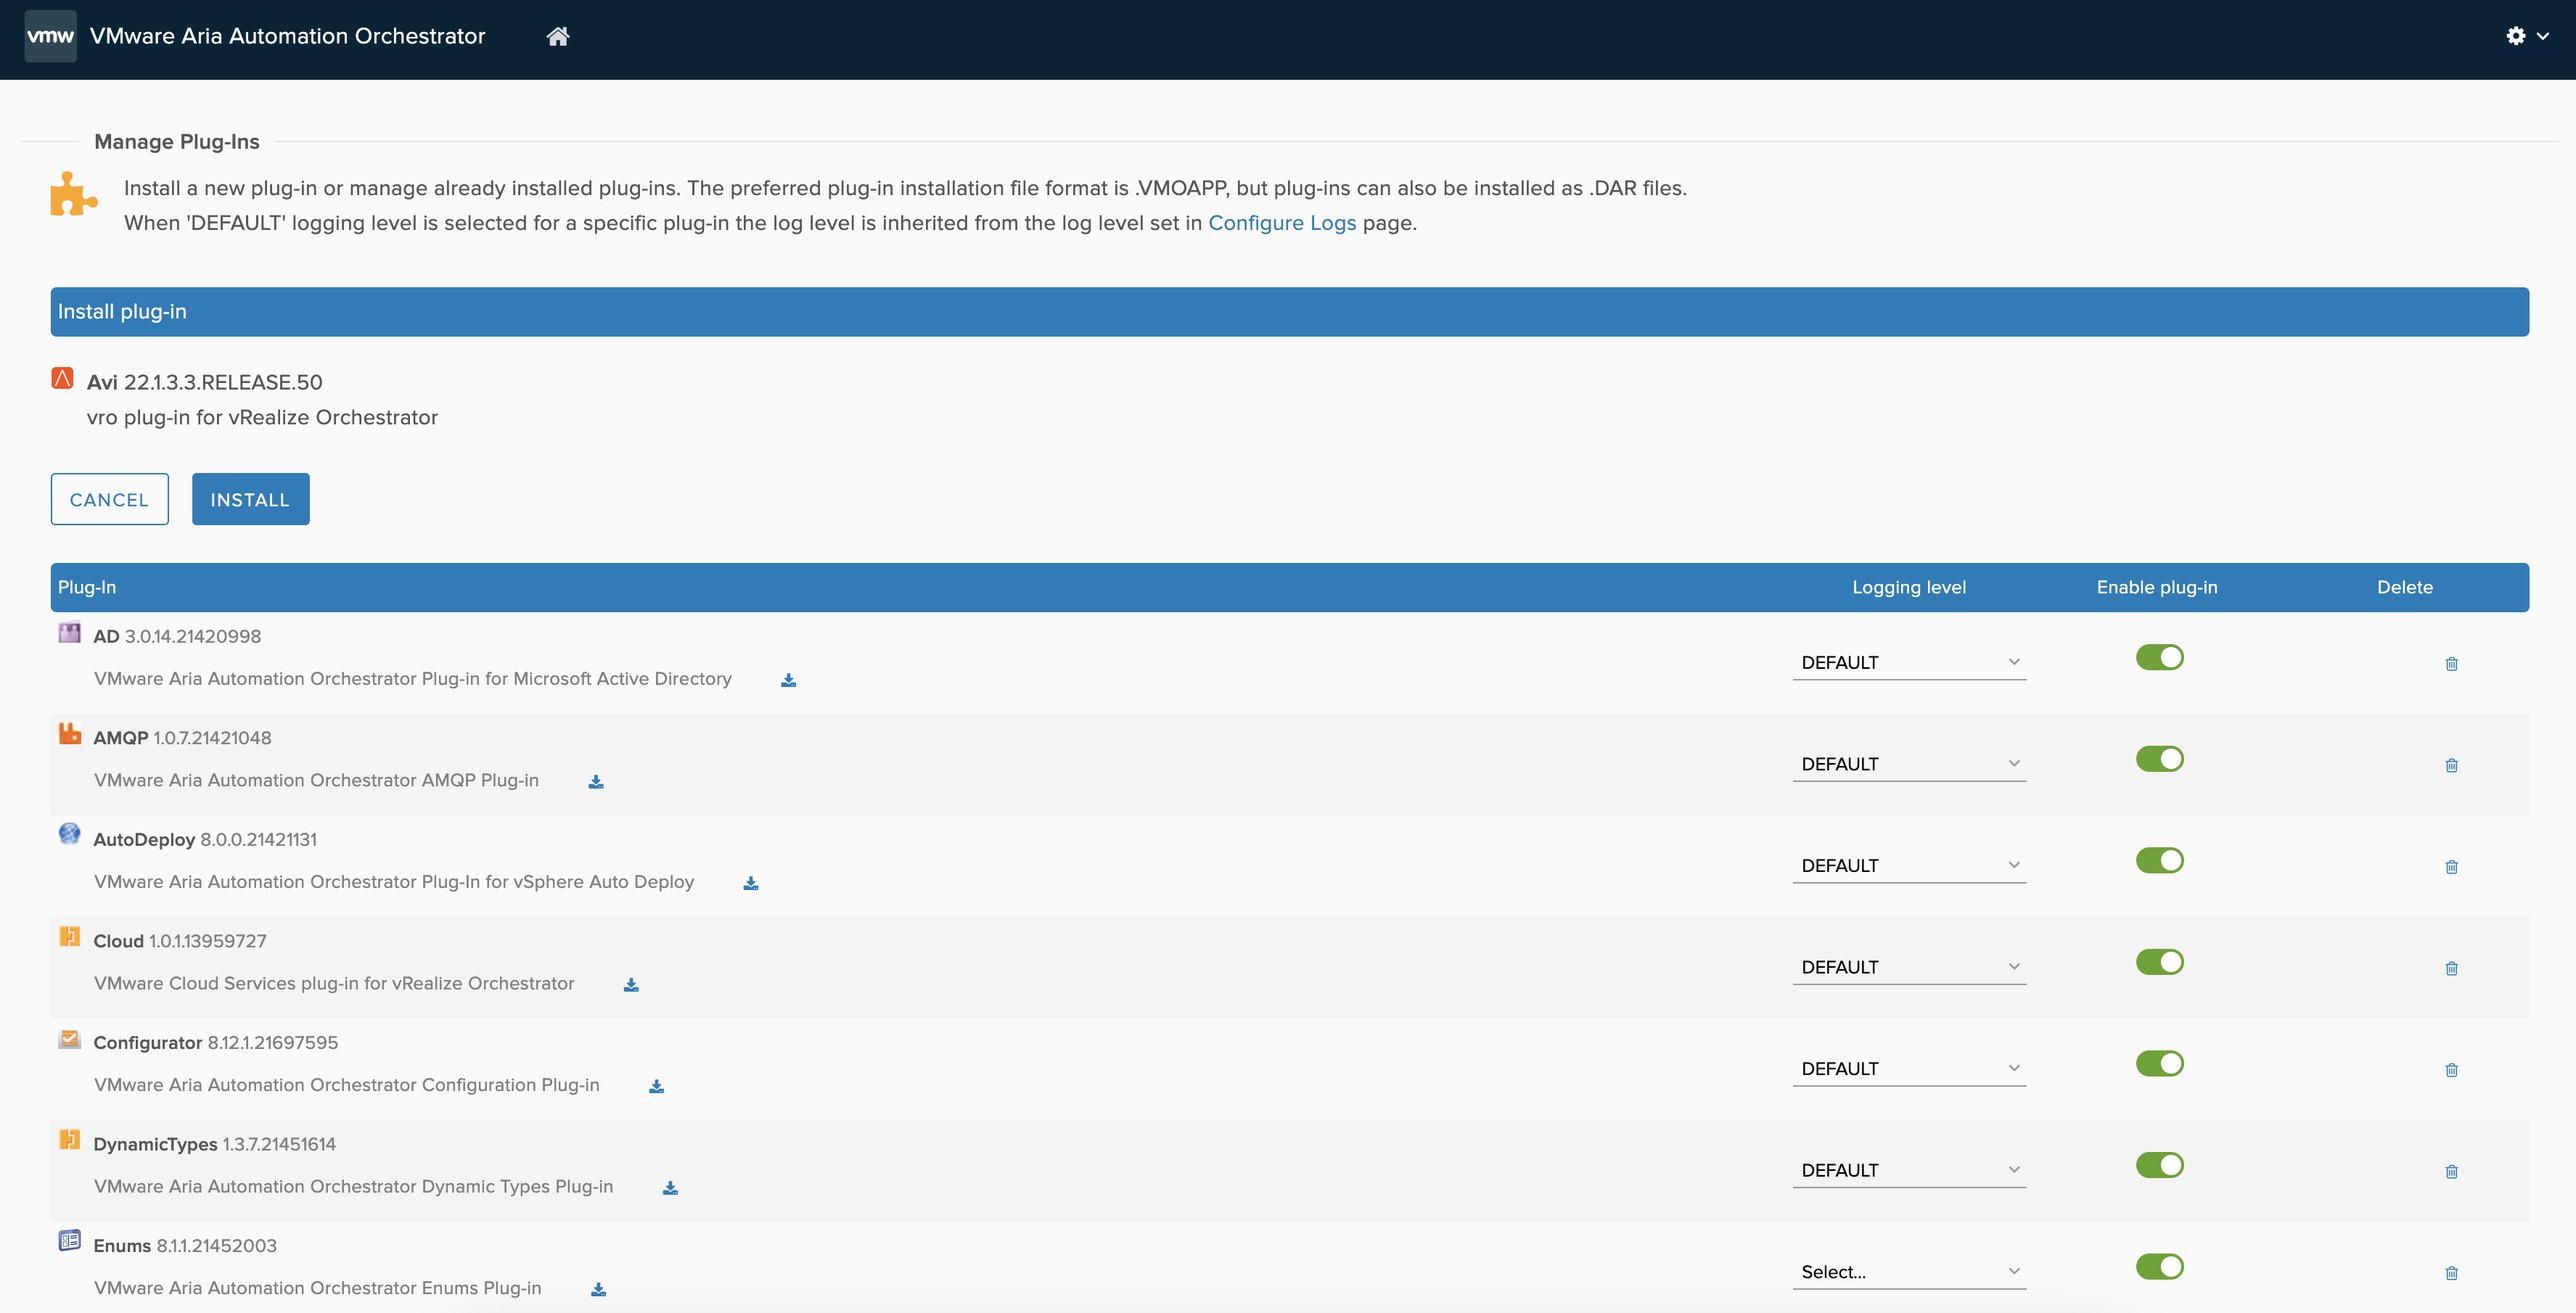
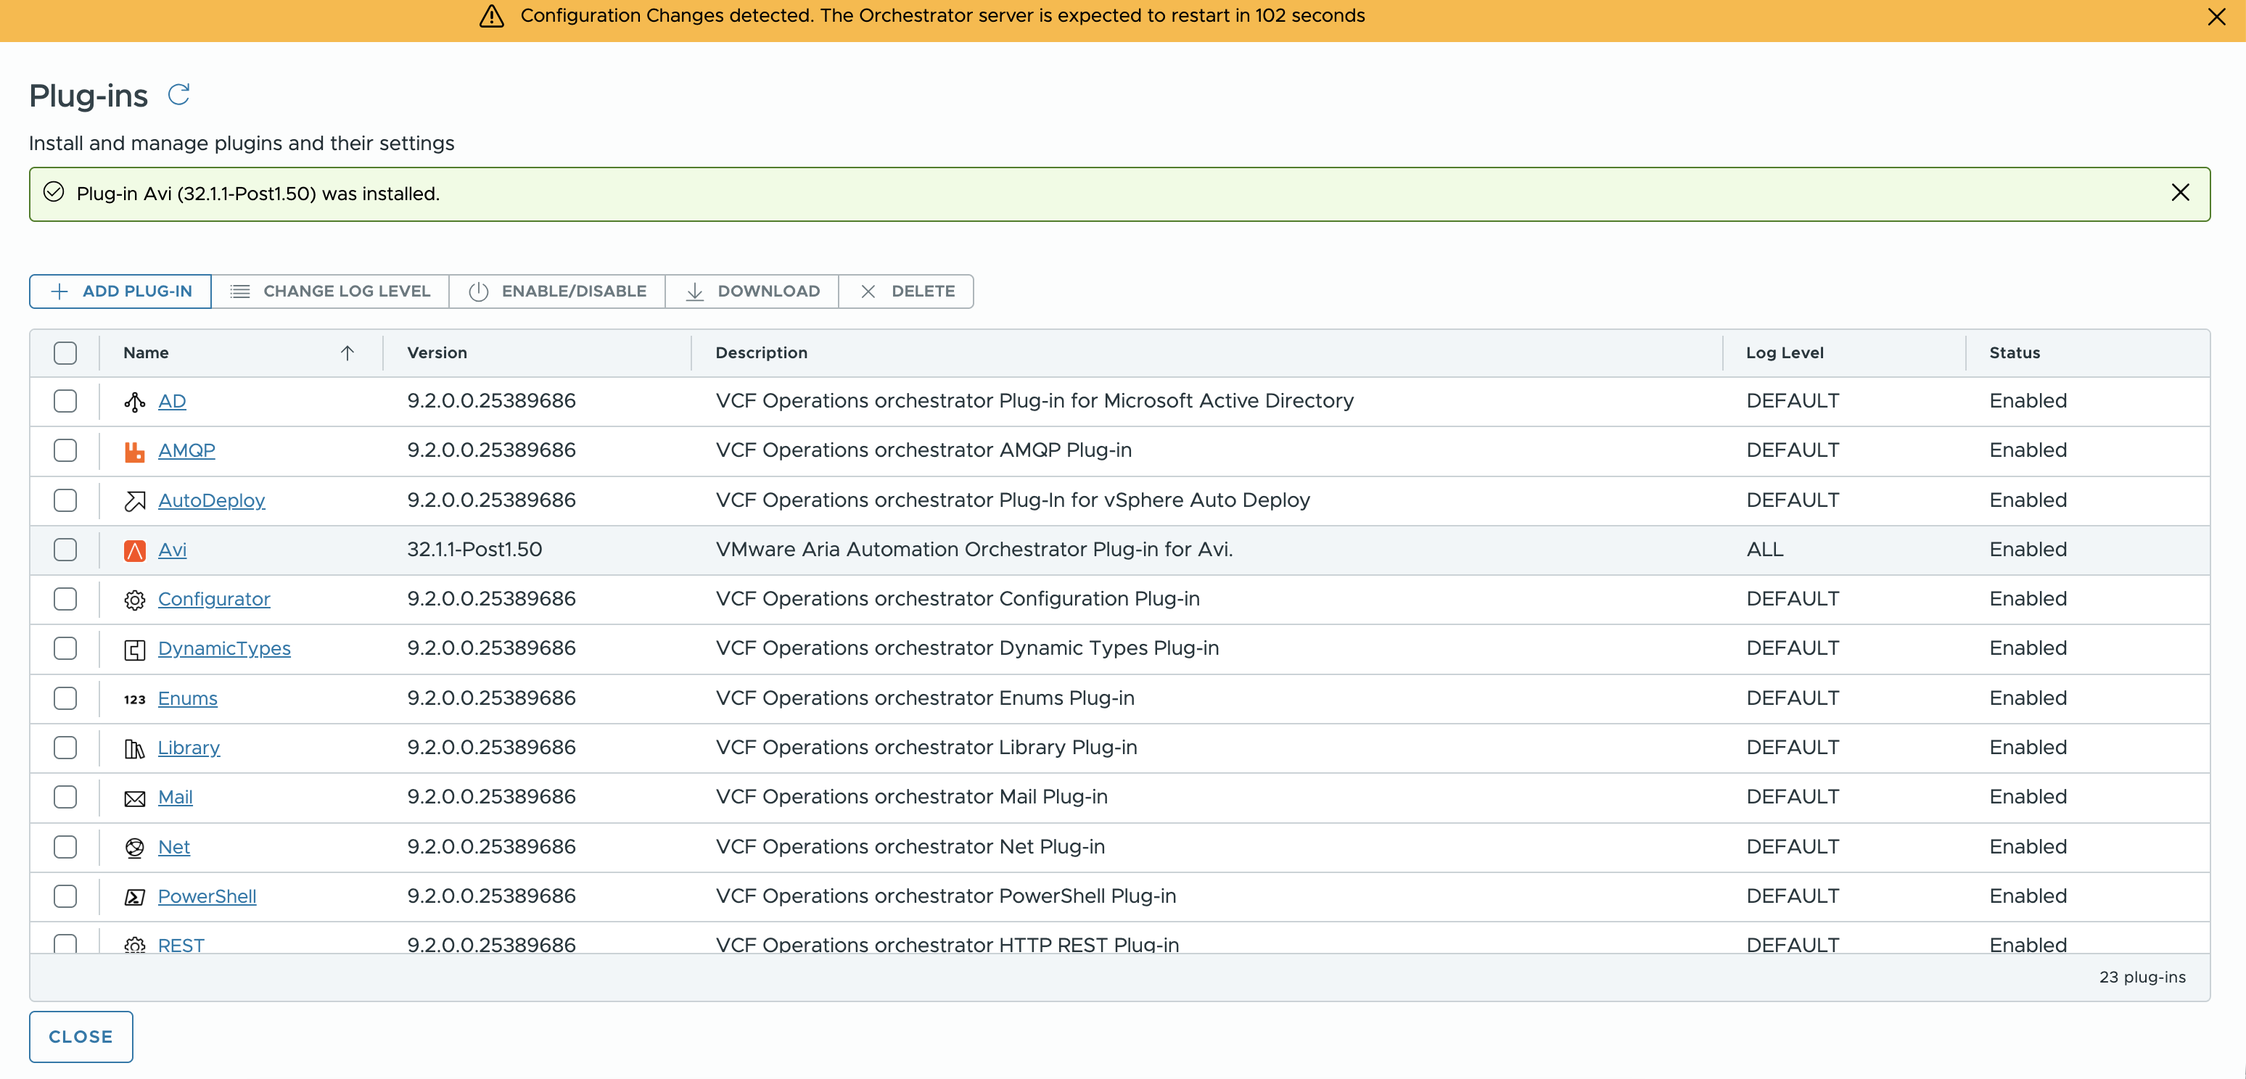
Updated README with updated vRO plugin screenshots.

diff --git a/README.md b/README.md
@@ -14,26 +14,25 @@ Avi VMware Aria Automation Orchestrator Plugin
 ## Installing plugin to VMware Aria Automation Orchestrator
 
     * Download the dar file from https://github.com/vmware/vrealize-orchestrator-plugin-for-alb/releases/download/22.1.3.post3/o11nplugin-vro-22.1.3.3.RELEASE.dar
-    * Enter the Ip of Vro instance in browser and click on Orchestrator Control Center.
-   ![alt text](images/control_center.png)
+    * Once vRO Orchestrator is setup Go to System Settings and Cick on Plug-ins & ADD PLUG-IN 
+   ![alt text](images/manage_plugin.png)
     
-    * Cick on Manage Plug-ins & Browse Plugin
-   ![alt text](images/manage_plugins.png)
+    * Upload the downloaded dar/vmoapp file from the git repo.
+   ![alt text](images/upload_plugin.png)
     
-    * Upload the downloaded dar file from the git repo.
-   ![alt text](images/upload_dar.png)
-    
-    * Click on install.(after installation VRO will restart this may take some time)
-   ![alt text](images/install_plugin.png)
+    * Click on ACCEPT AND INSTALL(after installation vRO will automatically restart, this may take some time)
+   ![alt text](images/accept_install_plugin.png)
+
+    * Plugin is installed.
+   ![alt text](images/install_plugin.png) 
    
-    * After installation, Open Orchestrator.
+    * After installation, Wait to Automatically Refresh the vRO Instance.
+    * Open Orchestrator and Inventory Tab. AVI vRO plugin is installed.
     
-    * Refresh the VRO.
-   
-   ![alt text](images/refresh_vro.png)
+   ![alt text](images/inventory.png)
 
     * Afrer refresh, you can see the workflow under Workflows tab inside Library > Avi folder and actions under Actions tab inside com.vmware.avi folder.
-   ![alt text](images/library.png)
+   ![alt text](images/workflows_library.png)
 
 
 ## Below are the steps to create custom workflows and actions using AVI vRO plugin.
